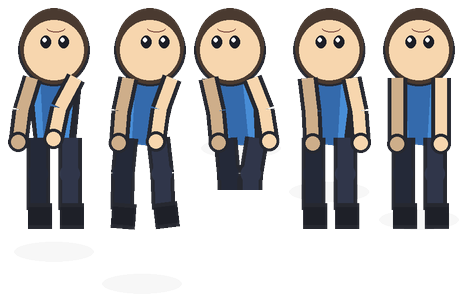
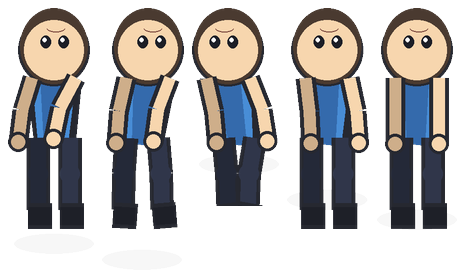
캐릭터 크기 조정 및 점프 포즈 완화로 화면 배치 최적화

diff --git a/Labs/LEC08_Animation/character_runs.py b/Labs/LEC08_Animation/character_runs.py
@@ -3,9 +3,44 @@ from pico2d import *
 open_canvas()
 
 grass = load_image('grass.png')
-character = load_image('run_animation.png')
+character = load_image('animation_sheet.png')
 
 # fill here
+frame = 0
+
+for x in range(800, 0, -5):
+    clear_canvas()
+    grass.draw(400, 30)
+    character.clip_composite_draw(
+        frame * 100, 0,100,100,
+        0, 'h',
+        x, 100,
+        100, 100, 
+    )
+    update_canvas()
+
+    frame = (frame + 1) % 8
+
+
+    delay(0.05)
+
+frame=0
+
+for x in range(0, 800, 5):
+    clear_canvas()
+    grass.draw(400, 30)
+    character.clip_composite_draw(
+        frame * 100, 100,100,100,
+        0, 'h',
+        x, 100,
+        100, 100, 
+    )
+    update_canvas()
+
+    frame = (frame + 1) % 8
+
+
+    delay(0.05)
 
 
 close_canvas()

diff --git a/Labs/LEC08_Animation/animation_viewer.py b/Labs/LEC08_Animation/animation_viewer.py
@@ -29,10 +29,10 @@ REPEAT_COUNT = 5          # 각 애니메이션 반복 횟수
 PAUSE_SECONDS = 1.0       # 반복 후 정지 시간
 FRAME_DURATION = 1.0 / 30 # 프레임 표시 시간 (고정 스텝)
 
-# 캐릭터 표시 크기 (화면 세로의 약 2/3 -> 절반 이상 조건 충족)
-CHAR_HEIGHT = 400
-CHAR_WIDTH_AT_UNITS = 208.0  # 시트에서 캐릭터 1unit 이 차지하는 픽셀 수
-SCALE = CHAR_HEIGHT / CHAR_WIDTH_AT_UNITS
+# 캐릭터 표시 크기 (화면 세로의 60% -> 절반 이상 조건 충족)
+CHAR_HEIGHT = 360
+CHAR_SHEET_UNITS = 208.0    # 시트에서 캐릭터 1unit 이 차지하는 픽셀 수
+SCALE = CHAR_HEIGHT / CHAR_SHEET_UNITS
 
 # 캐릭터 발밑을 놓을 화면 좌표 (캐릭터가 화면 중앙에 오도록 계산)
 FOOT_X = CANVAS_W / 2

diff --git a/Labs/LEC08_Animation/make_sprite_sheet.py b/Labs/LEC08_Animation/make_sprite_sheet.py
@@ -51,8 +51,8 @@ ANIMATIONS = [
         "name": "jump",
         "fps": 6,
         "poses": [
-            (0, 16, -28), (7, 32, -20), (-9, -36, 22),
-            (0, -14, 12), (0, 0, 0),
+            (0, 12, -28), (5, 20, -20), (-9, -28, 22),
+            (0, -10, 12), (0, 0, 0),
         ],
     },
     {
